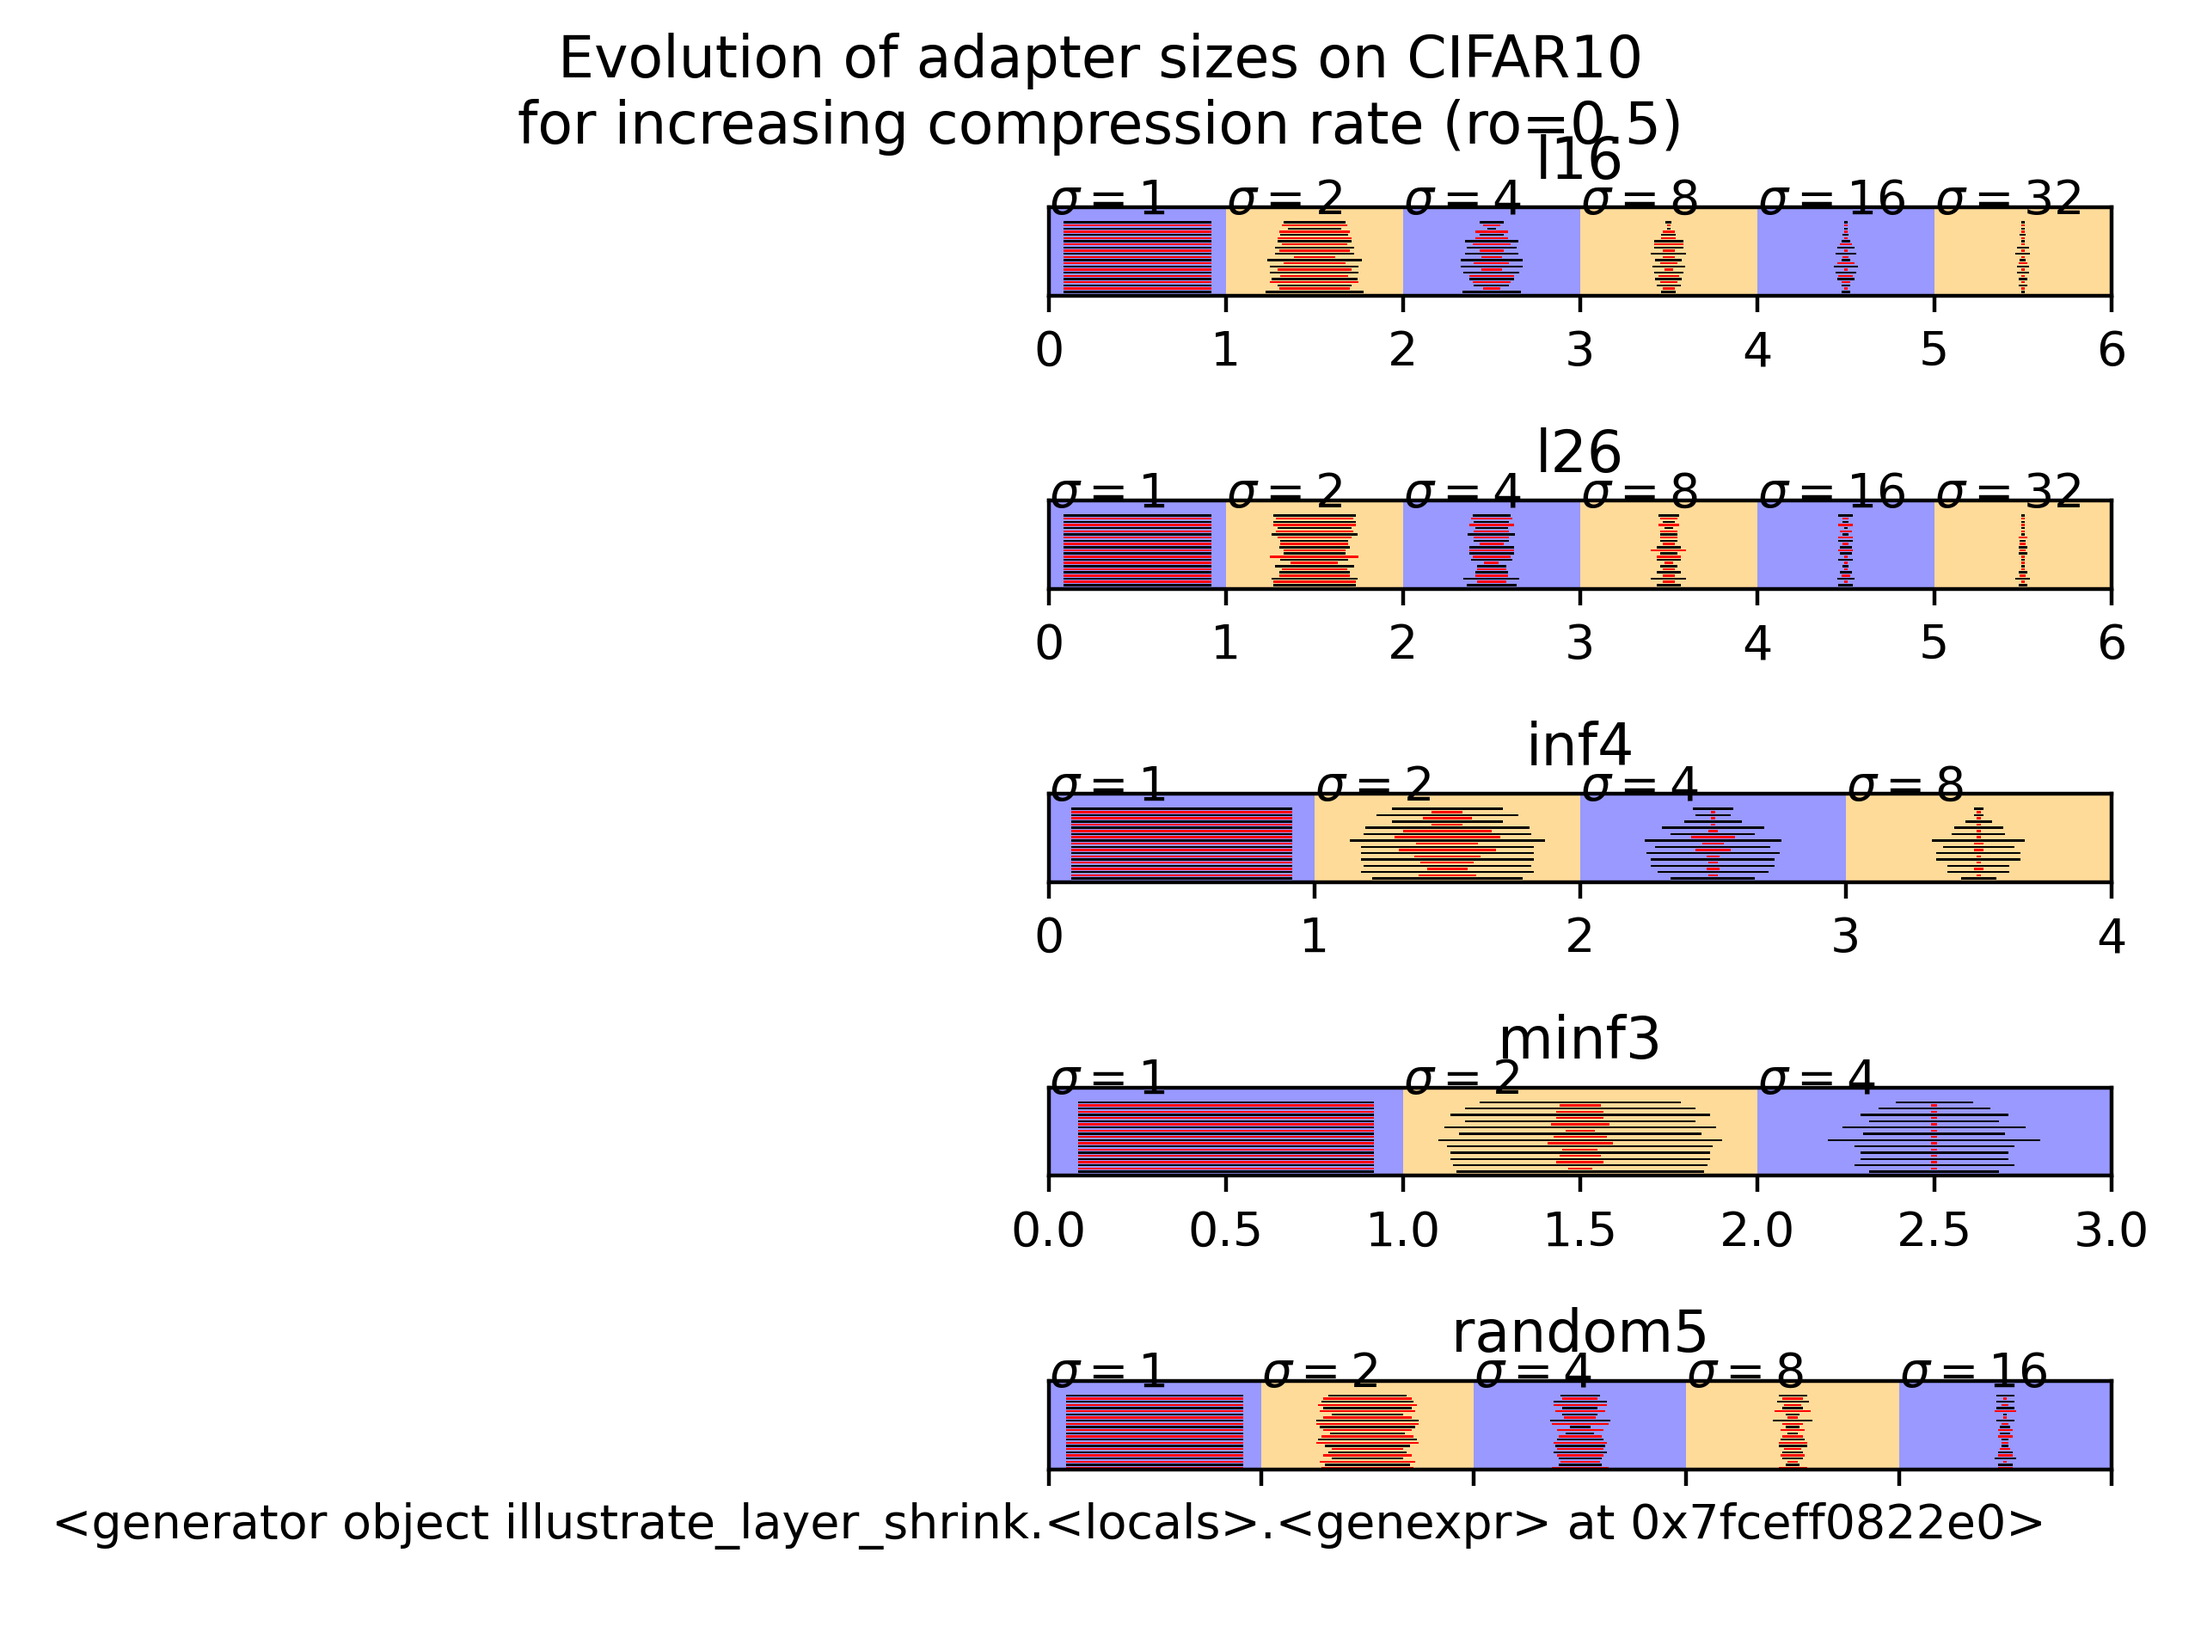
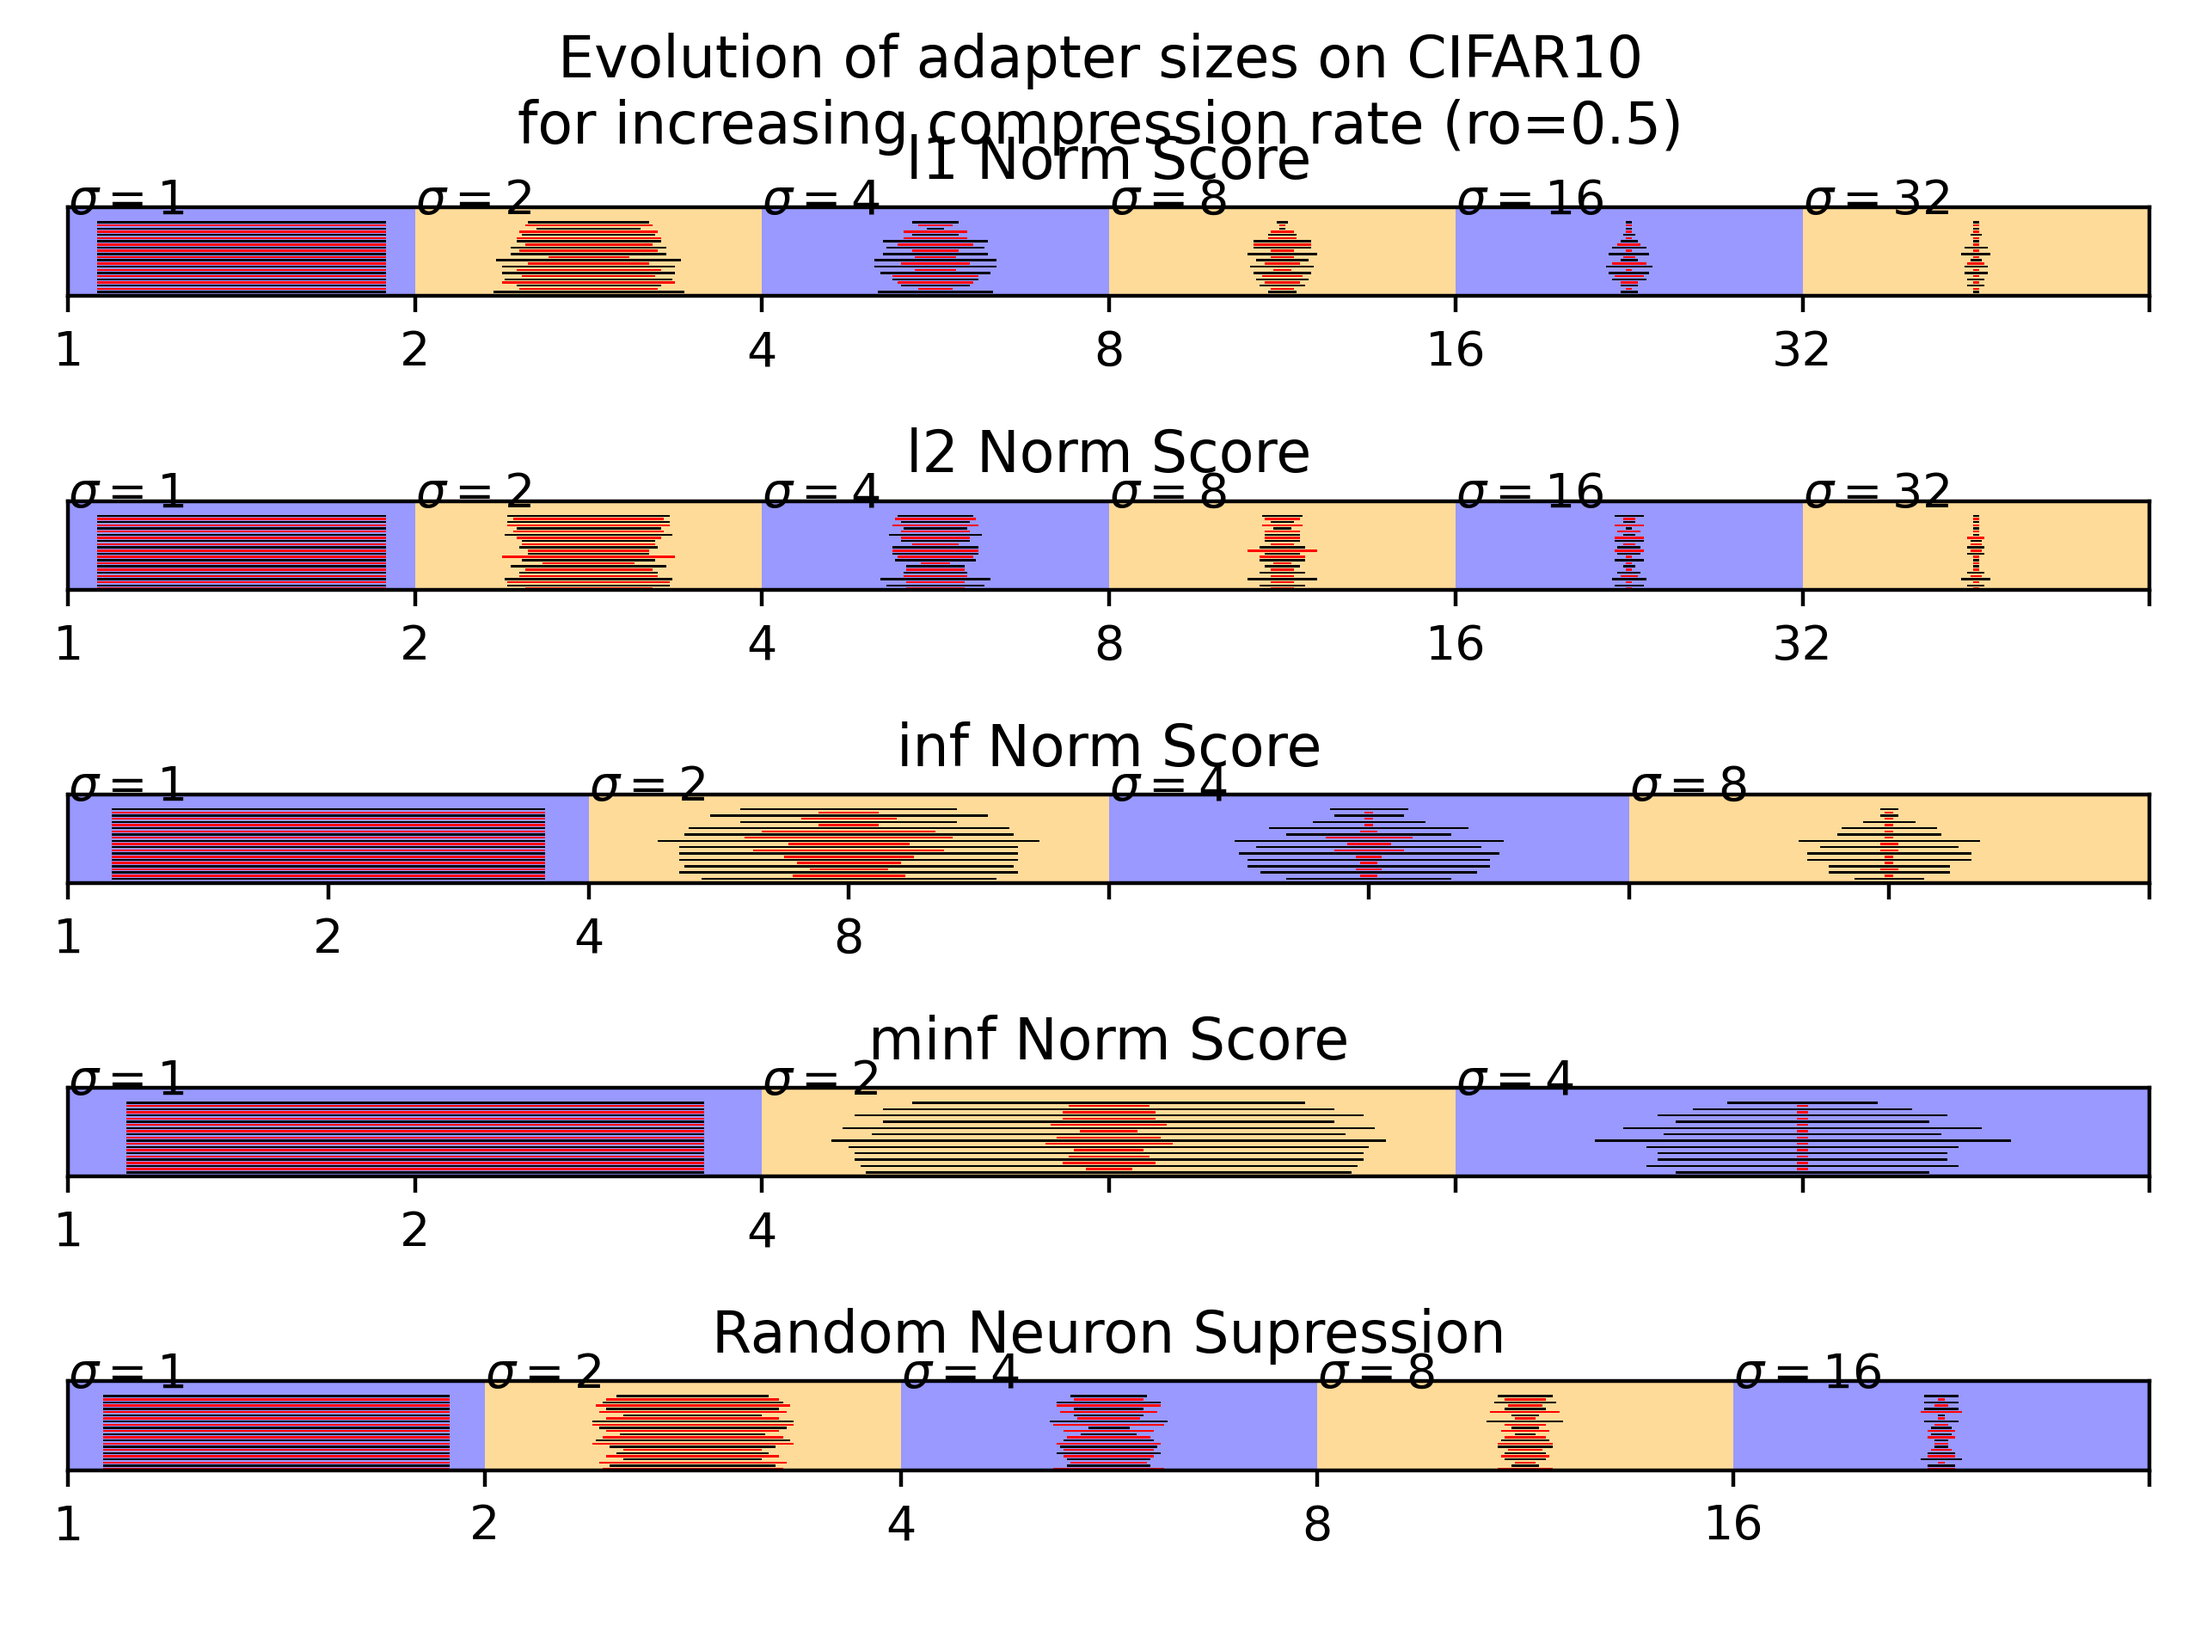
enum

diff --git a/src/viz.py b/src/viz.py
@@ -84,7 +84,7 @@ def illustrate_layer_shrink(opt):
 			title = norm + " Norm Score"
 		allLosses, allAccs, compRates, epochLengths, allHiddenSizes = loadRunData(opt)
 		ax = axes[normIndex];
-		ax.set_title(title)
+		ax.set_ylabel(title)
 
 		for compIndex, hids in enumerate(allHiddenSizes):
 			intermediate, output = hids["intermediate"], hids["output"]
